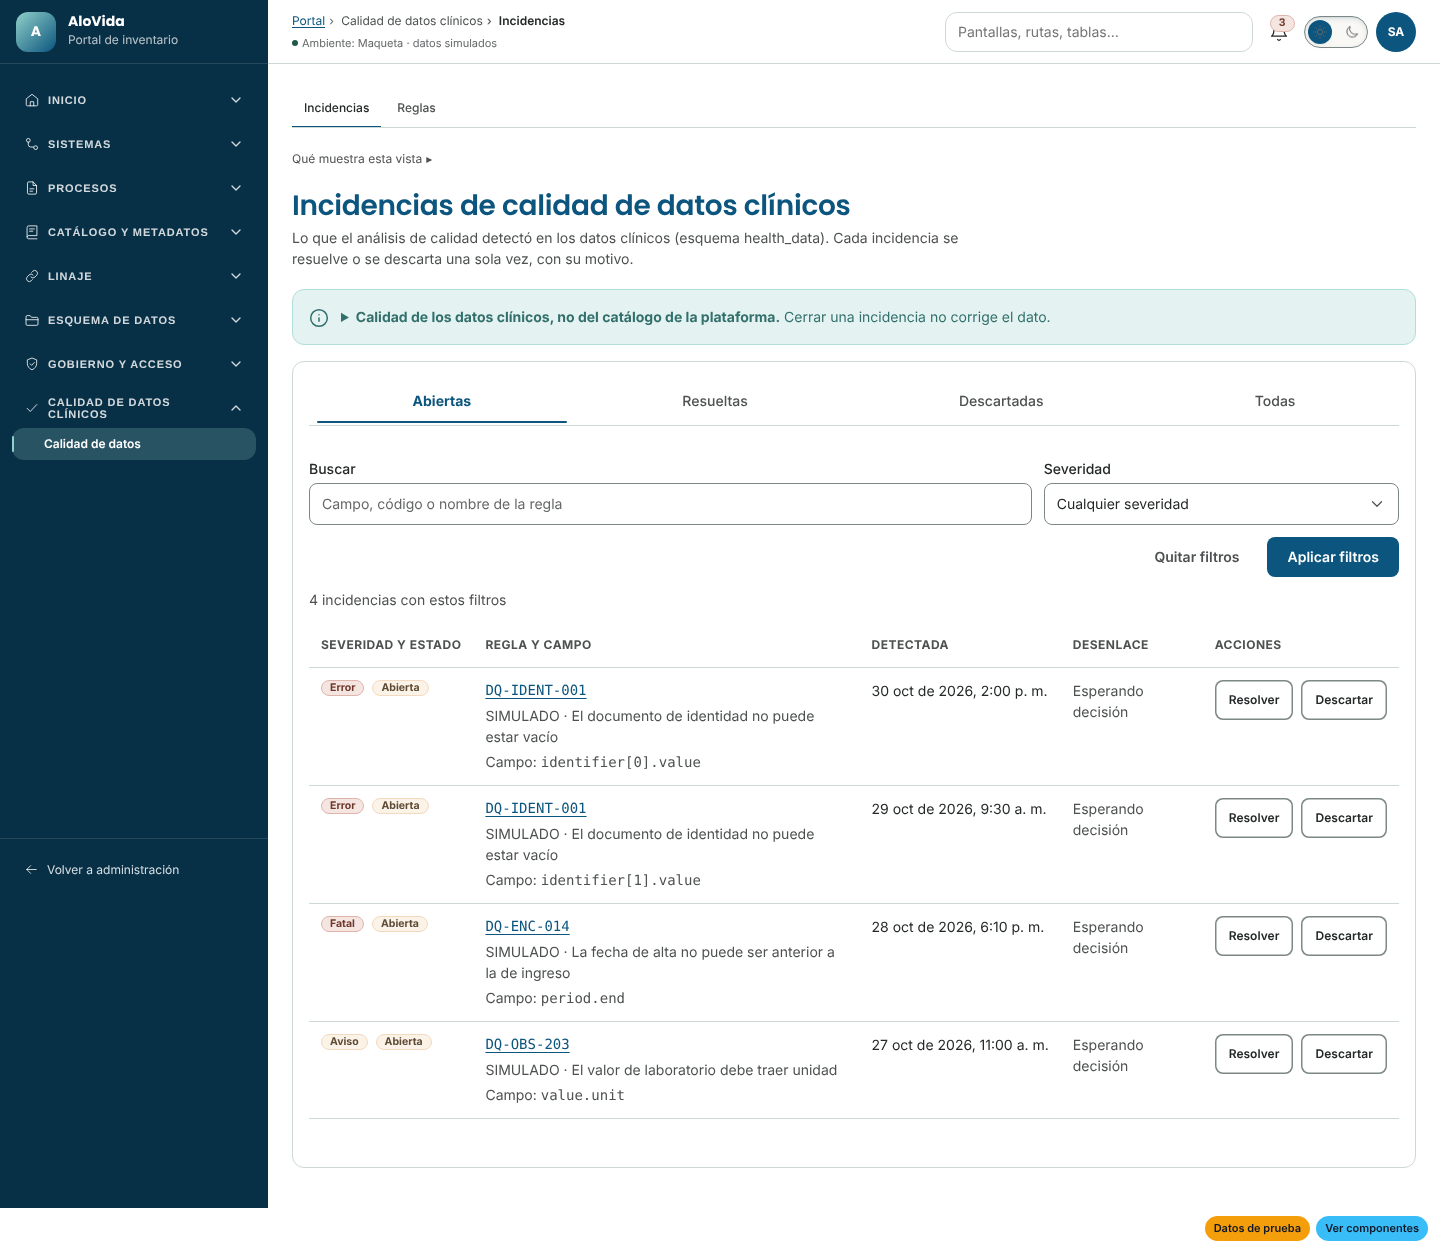
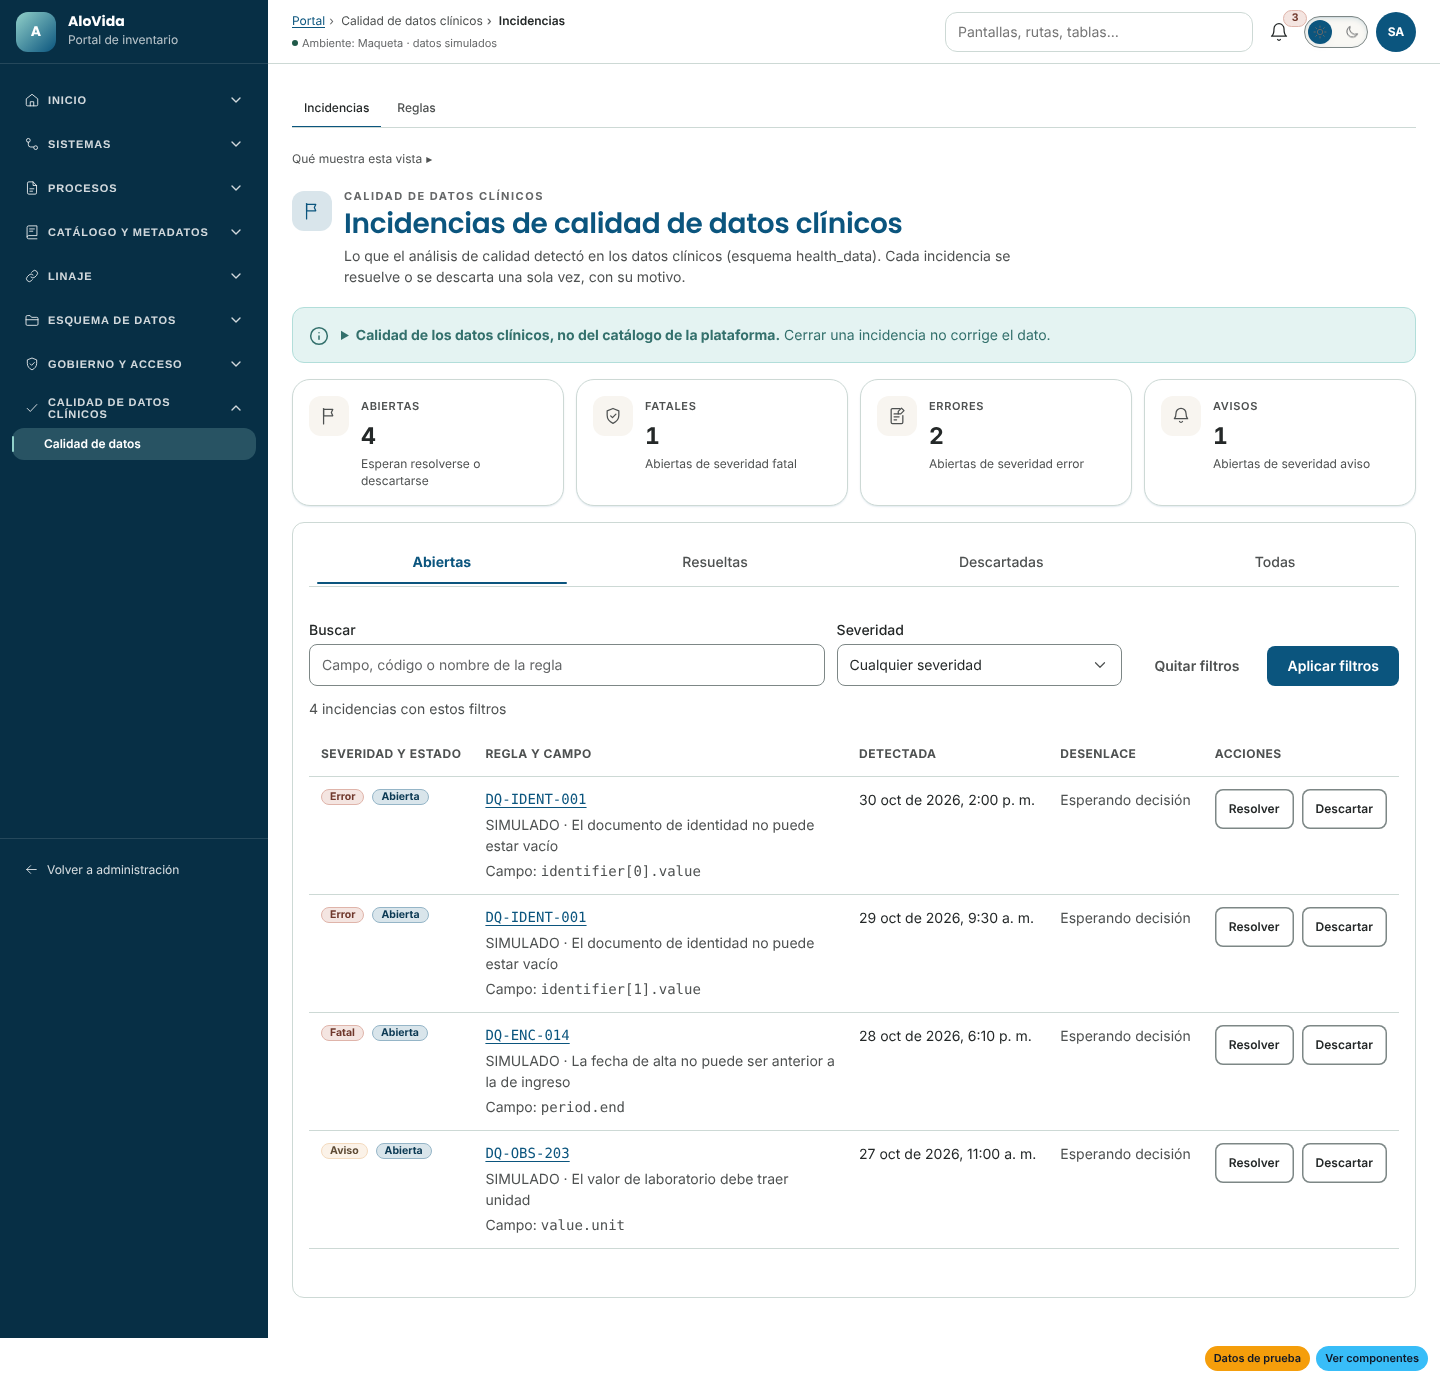
fix(portal): incidencias — cifras de las abiertas sólo si la respuesta ya pedida las trae todas, «Abierta» en otro tono que «Aviso», «Esperando decisión» sin partir (revisión visual 1)
Claude-Session: https://claude.ai/code/session_015srVoda962hL6gd5RrH9vw

diff --git a/src/app/features/admin/portal/data-quality/issues/issues-page.ts b/src/app/features/admin/portal/data-quality/issues/issues-page.ts
@@ -29,6 +29,7 @@ import { Badge } from '../../../../../shared/components/atoms/badge/badge';
 import { Link } from '../../../../../shared/components/atoms/link/link';
 import { Alert } from '../../../../../shared/components/molecules/alert/alert';
 import { Card } from '../../../../../shared/components/molecules/card/card';
+import { MetricCard } from '../../../../../shared/components/molecules/metric-card/metric-card';
 import { DialogService } from '../../../../../shared/components/molecules/dialog/dialog-service';
 import { Tab } from '../../../../../shared/components/molecules/tabs/tab/tab';
 import { Tabs } from '../../../../../shared/components/molecules/tabs/tabs';
@@ -83,7 +84,7 @@ const ACTIONS: Readonly<
  */
 @Component({
   selector: 'app-portal-quality-issues-page',
-  imports: [NgTemplateOutlet, RouterLink, AppButton, Badge, Link, Alert, Card, Tab, Tabs, DataTable, PageHeader, FilterForm],
+  imports: [NgTemplateOutlet, RouterLink, AppButton, Badge, Link, Alert, Card, MetricCard, Tab, Tabs, DataTable, PageHeader, FilterForm],
   templateUrl: './issues-page.html',
   styleUrl: './issues-page.css',
   changeDetection: ChangeDetectionStrategy.OnPush,
@@ -118,6 +119,19 @@ export class IssuesPage {
     (cursor) => this.client.listIssues({ ...issueQuery(this.values()), limit: PAGE_SIZE, ...(cursor ? { cursor } : {}) }),
     () => this.whenEmpty(),
   );
+
+  /**
+   * Cifras de las abiertas: sólo en la pestaña «Abiertas», sin filtros y cuando la respuesta ya
+   * pedida las trae todas (una sola página). Si no, no se muestran: contar una página sería inventar.
+   */
+  protected readonly metrics = computed(() => {
+    const s = this.list.state();
+    const total = this.list.total();
+    if (this.tabIndex() !== 0 || hasIssueFilters(this.values())) return null;
+    if (s.status !== 'ready' || total === null || s.data.length !== total) return null;
+    const by = (sev: string) => s.data.filter((i) => i.severity === sev).length;
+    return { open: total, fatal: by('FATAL'), error: by('ERROR'), warning: by('WARNING') };
+  });
 
   private readonly severityCell = viewChild.required<TemplateRef<{ $implicit: QualityIssue }>>('severityCell');
   private readonly issueCell = viewChild.required<TemplateRef<{ $implicit: QualityIssue }>>('issueCell');

diff --git a/src/app/features/admin/portal/data-quality/issues/issues-page.html b/src/app/features/admin/portal/data-quality/issues/issues-page.html
@@ -20,6 +20,15 @@
     </details>
   </app-alert>
 
+  @if (metrics(); as m) {
+    <section class="issues__metrics" aria-label="Incidencias abiertas" data-testid="portal-quality-metrics">
+      <app-metric-card label="Abiertas" icon="flag" [value]="m.open" hint="Esperan resolverse o descartarse" />
+      <app-metric-card label="Fatales" icon="shield" [value]="m.fatal" hint="Abiertas de severidad fatal" />
+      <app-metric-card label="Errores" icon="note" [value]="m.error" hint="Abiertas de severidad error" />
+      <app-metric-card label="Avisos" icon="bell" [value]="m.warning" hint="Abiertas de severidad aviso" />
+    </section>
+  }
+
   @if (notice(); as n) {
     <app-alert [tone]="n.tone" data-testid="portal-quality-notice">{{ n.text }}</app-alert>
   }
@@ -104,7 +113,7 @@
 <ng-template #outcomeCell let-row>
   <div class="issues__cell">
     @if (row.status === 'OPEN') {
-      <span class="issues__secondary">Esperando decisión</span>
+      <span class="issues__secondary issues__nowrap">Esperando decisión</span>
     } @else {
       <span>{{ when(row.resolvedAt) }}</span>
       @if (row.resolutionText) {

diff --git a/src/app/features/admin/portal/data-quality/issues/issues-page.css b/src/app/features/admin/portal/data-quality/issues/issues-page.css
@@ -96,6 +96,24 @@
 }
 
 /* La fecha no se parte a mitad («2:00 p. / m.»). */
-.issues__when {
+.issues__when,
+.issues__nowrap {
   white-space: nowrap;
+}
+
+/* Cuatro cifras: de dos en dos en el teléfono y la tableta, en una fila desde escritorio. */
+.issues__metrics {
+  display: grid;
+  grid-template-columns: repeat(2, minmax(0, 1fr));
+  gap: var(--sp-3);
+}
+
+@media (min-width: 1024px) {
+  .issues__metrics {
+    grid-template-columns: repeat(4, minmax(0, 1fr));
+  }
+}
+
+.issues__metrics app-metric-card {
+  min-inline-size: 0;
 }

diff --git a/src/app/features/admin/portal/data-quality/quality-labels.ts b/src/app/features/admin/portal/data-quality/quality-labels.ts
@@ -21,7 +21,7 @@ const SEVERITY: Readonly<Record<QualitySeverity, Rotulo>> = {
 };
 
 const STATUS: Readonly<Record<QualityIssueStatus, Rotulo>> = {
-  OPEN: { label: 'Abierta', tone: 'warning' },
+  OPEN: { label: 'Abierta', tone: 'primary' },
   RESOLVED: { label: 'Resuelta', tone: 'success' },
   DISMISSED: { label: 'Descartada', tone: 'secondary' },
 };
